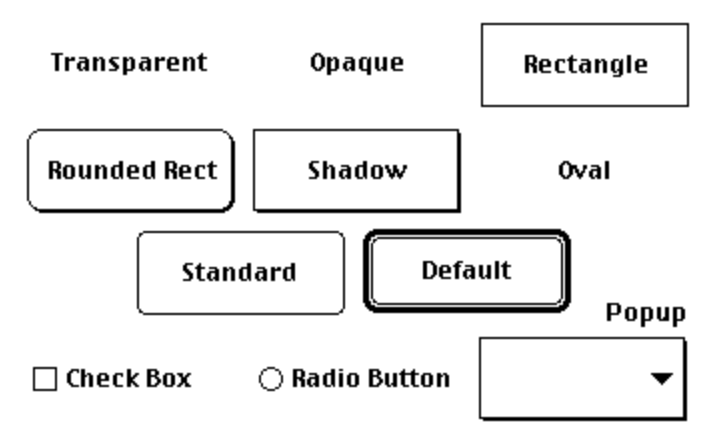
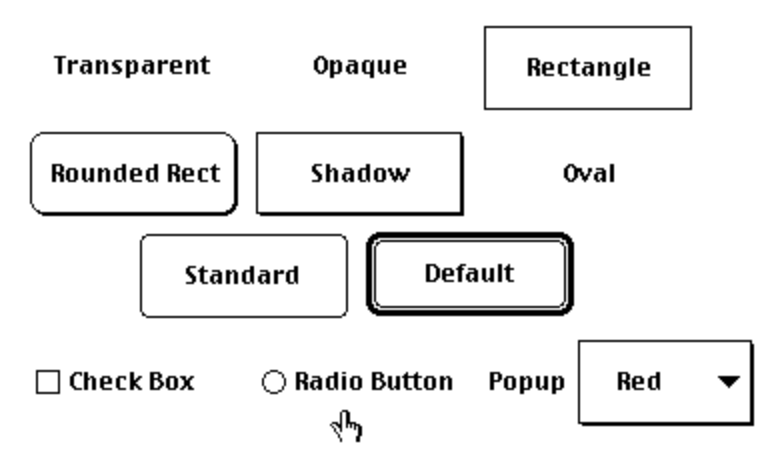
more HyperCard

diff --git a/src/hypercard.md b/src/hypercard.md
@@ -795,8 +795,20 @@ A button with the style "Popup" displays a dropdown list of options.
 To specify the options, click the "Contents..." button
 and enter each option on its own line.
 
-To get the currently selected value of a Popup,
-TODO: Finish this.
+The name assigned to the button is used for
+a label that appears to the left of the dropdown.
+By default, the label is given a width of zero and doesn't appear.
+To make it appear, enter a value for "Title Width" in the Button Info dialog.
+Alternatively, drag the left edge of the button to the right
+to reveal the title and set the "Title Width".
+
+To get the currently selected text or line number of a Popup,
+use the following expressions:
+
+```text
+the selectedText of button "My Popup Name"
+the selectedLine of button "My Popup Name"
+```
 
 ## Fields
 
